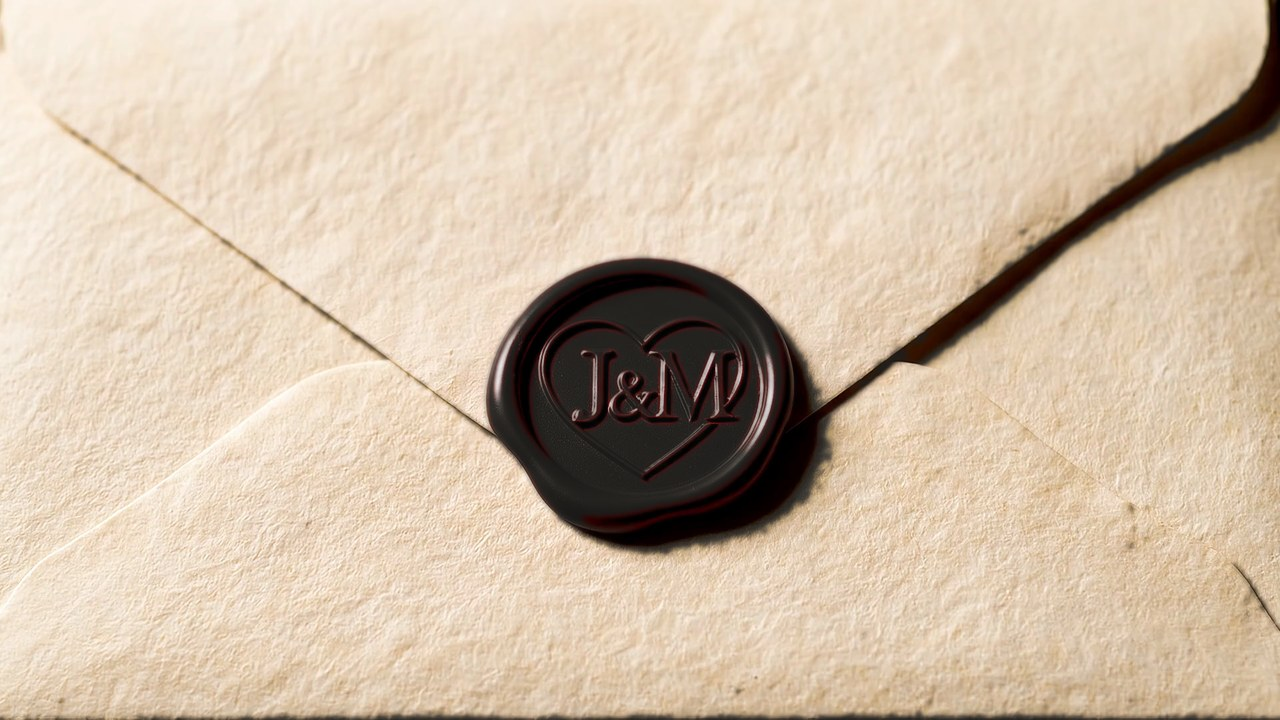
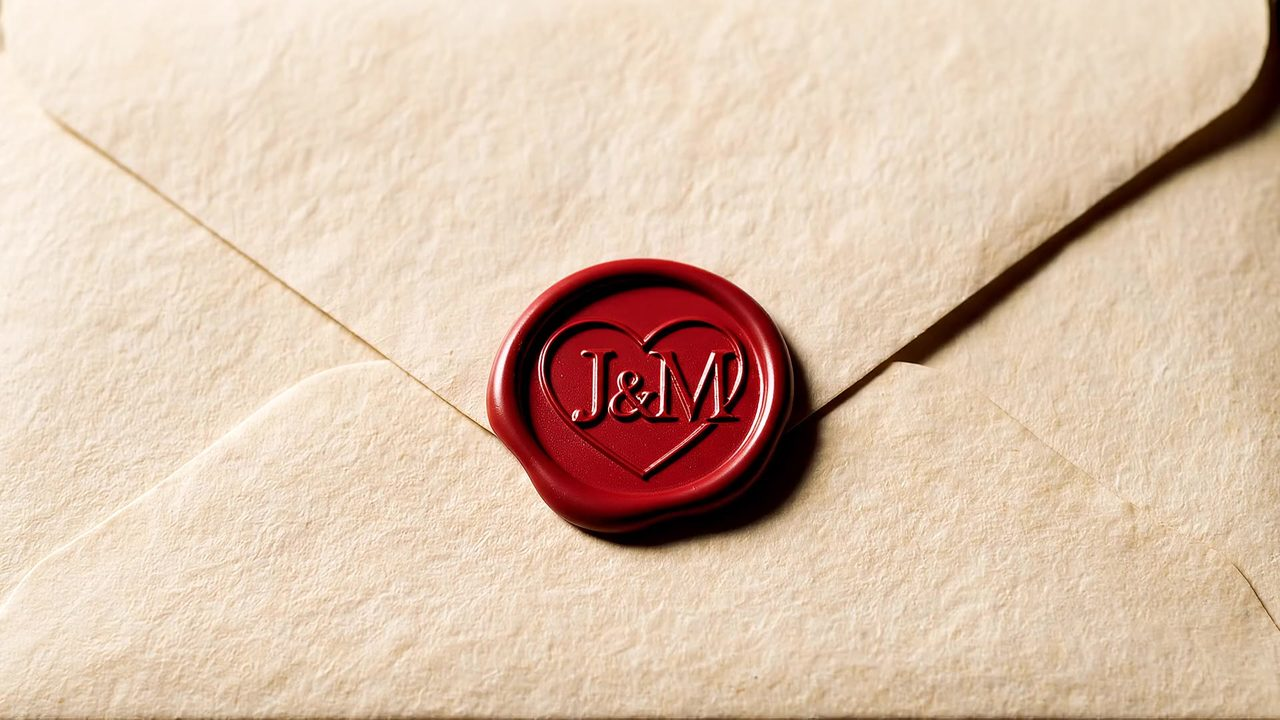
Revert "Envelope: recolor the J&M wax seal from red to tonal black-on-black"
This reverts commit 46fa70d84e968dcfded77667cbf6152f504bcb7e.

diff --git a/index.html b/index.html
@@ -69,9 +69,9 @@
      object-fit:cover fills the screen top-to-bottom on every size. -->
 <div class="gate" id="gate" role="dialog" aria-modal="true" aria-label="Your invitation">
   <video class="gate__video" id="gateVideo" playsinline muted preload="auto"
-         poster="assets/opening-poster.jpg?v=5" aria-hidden="true">
-    <source src="assets/opening.webm?v=5" type="video/webm" />
-    <source src="assets/opening.mp4?v=5" type="video/mp4" />
+         poster="assets/opening-poster.jpg?v=2" aria-hidden="true">
+    <source src="assets/opening.webm?v=2" type="video/webm" />
+    <source src="assets/opening.mp4?v=2" type="video/mp4" />
   </video>
   <p class="gate__hint" id="gateHint">Tap to open</p>
 </div>